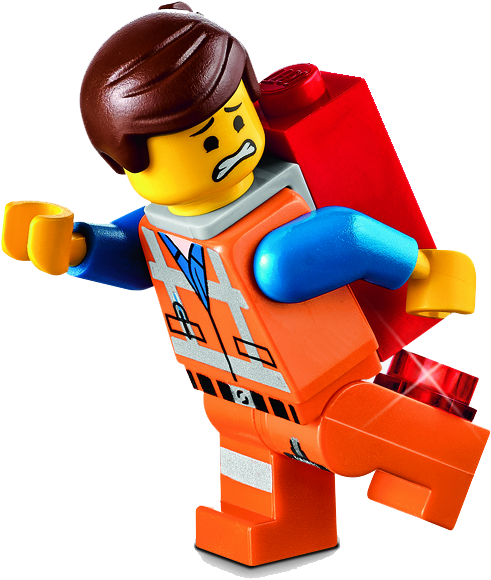
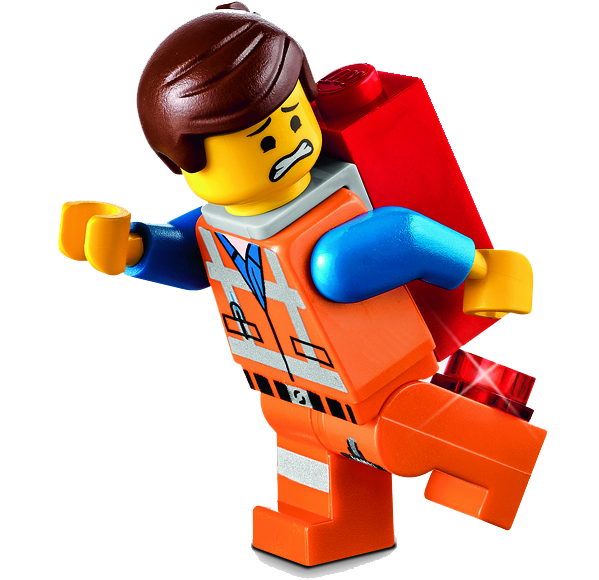
bug fixes and image crops

diff --git a/game logic files/hangmanbattle.js b/game logic files/hangmanbattle.js
@@ -1,6 +1,18 @@
 let DAMAGE_PER_TICK = 7;
 let FINAL_SMASH_SCALING = 5;
 
+// if(typeof console !=='undefined'){
+//     if(typeof console.log !== 'undefined'){
+//         console.olog = console.log;
+//     }else{
+//         console.olog = function(){};
+//     }
+//     console.log = function(message){
+//         console.olog(message);
+//         id('debugdiv').append(`<p>` + message + `</p>`)
+//     }
+//     console.error = console.debug = console.info = console.log;
+// }
 
 let IMAGE_PATH = '../images/';
 
@@ -13,7 +25,7 @@ let characters = [
     'superman', 'genie', 'simba', 'captainmarvel', 'mewtwo', 'sailormoon', 'venom', 'thor',
     'ultraman2', 'ultraman3', 'olaf', 'hulk', 'gundam', 'optimus', 'snowwhite', 'deadpool',
     'goku', 'ash', 'charizard', 'captainamerica', 'nakoruru', 'mario', 'emmet', 'wyldstyle',
-    'tree', 'link', 'isabelle',
+    'tree', 'link', 'isabelle', 'doraemon', 'hellokitty'
 ];
 let powers = [
     'blueenergy',
@@ -24,7 +36,7 @@ let powers = [
     'fire', 'magic', 'magic', 'electric', 'magic', 'pinkenergy', 'blackenergy', 'electric',
     'magic', 'electric', 'ice', 'rock', 'bluebeam', 'bullet', 'bluebeam', 'bullet',
     'bluebeam', 'fire', 'fire', 'fire', 'fire', 'fire', 'legored', 'blackenergy',
-    'apple', 'blueenergy', 'water',
+    'apple', 'blueenergy', 'water', 'blueenergy','pinkenergy'
 ];
 
 document.body.style.backgroundColor = 'lightgrey'
@@ -113,10 +125,11 @@ async function choose_your_fighter(isTeamA) {
 
         let images = [];
         let lines = [];
-        let text = new P('Choose Your Fighter', screenx + screenw / 3, screeny + 10).fromCenter();
+        let text = new P('Choose Your Fighter', screenx + screenw / 2, screeny + screeny*0.18).fromCenter();
         let names = [];
         text.shape.style.fontSize = width * 0.02 + 'px';
         text.shape.style.zIndex = '2070';
+        text.shape.x = screenx + screenw / 2
 
         function start_the_game(num) {
             crop.remove();
@@ -360,8 +373,16 @@ function setup() {
 
 function nextWord(isTeamA) {
     let team = isTeamA ? teamA : teamB;
+    if(team.wordPool[team.wordIndex] === undefined){
+        team.wordIndex = 0;
+        team.word = team.wordPool[team.wordIndex][0];
+    }
     team.word = team.wordPool[team.wordIndex][0];
     team.wordIndex++;
+    if(team.word === undefined){
+        team.wordIndex = 0;
+        team.word = team.wordPool[team.wordIndex][0];
+    }
     setUpWord(isTeamA, team.word);
     message(isTeamA, 'New Word!')
 }
@@ -550,6 +571,7 @@ function submitLetters() {
                     p.shape.remove();
                     p.shape = DomObject.attach(divB.shape.cloneNode(true));
                     mover.addSprite(p);
+                    p.set('zIndex','15')
                     THINGS_TO_UPDATE.push(mover);
                     THINGS_TO_KILL.push(mover);
                 } else {

diff --git a/one/words.js b/one/words.js
@@ -4,7 +4,7 @@
 //let words = ['park','horse','fork','nurse','skirt','singer','farmer','bird','arm','car','turtle'];
 //let words = ['goat','coat','boat','cloak','clock','wall','green','grass','ball'];
 //let words = ['flute','luke','prune','sue','blue','glue','fruit','suit','juice','cute','mule','cube'];
-let words = ['tape','cake','lake','tail','mail','nail','day','hay','pay'];
+//let words = ['tape','cake','lake','tail','mail','nail','day','hay','pay'];
 //let words = ['hamburger','egg','carrot','hot dog','sausage','tomato','noodle','cookie','candy','dumpling','chip','sandwich','kiwifruit','pineapple','watermelon','grape','peach','strawberry'];
 //let words = ['trousers','truck','train','strawberry','trash','tree','draw','drink','dragon','driver','drum','drawer'];
 //let words = ['meat','sea','jeep','seat','green','feet','me','he','we','candy','happy','puppy'];
@@ -13,6 +13,8 @@ let words = ['tape','cake','lake','tail','mail','nail','day','hay','pay'];
 
 //================ESLS=================
 
+
+let words = ['red','yellow','green','blue','rabbit','cat','dog','tiger','apple','banana','watermelon','pear','football','basketball'];
 //let words = ['living room','dining room','bedroom','garage','kitchen','terrace','bathroom','yard']
 //let words = ['happy','sad','nervous','relaxed','excited','energetic','tired','confused','scared','curious','bored','hungry','sleepy','angry','surprised','confident'];
 //let words = ['first', 'second', 'third', 'fourth','fifth','sixth','seventh','eighth','ninth','tenth','eleventh','twelfth','thirteenth',    'fourteenth','fifteenth','sixteenth','seventeenth','eighteenth','nineteenth','twentieth'];

diff --git a/one/hangmanbattle.html b/one/hangmanbattle.html
@@ -17,6 +17,7 @@
 </head>
 
 <body class="locked">
+<div id="debugdiv" style=" position: absolute;z-index: 200000"></div>
 <script language="javascript" type="text/javascript" src="../game%20logic%20files/hangmanbattle.js">
 
 
